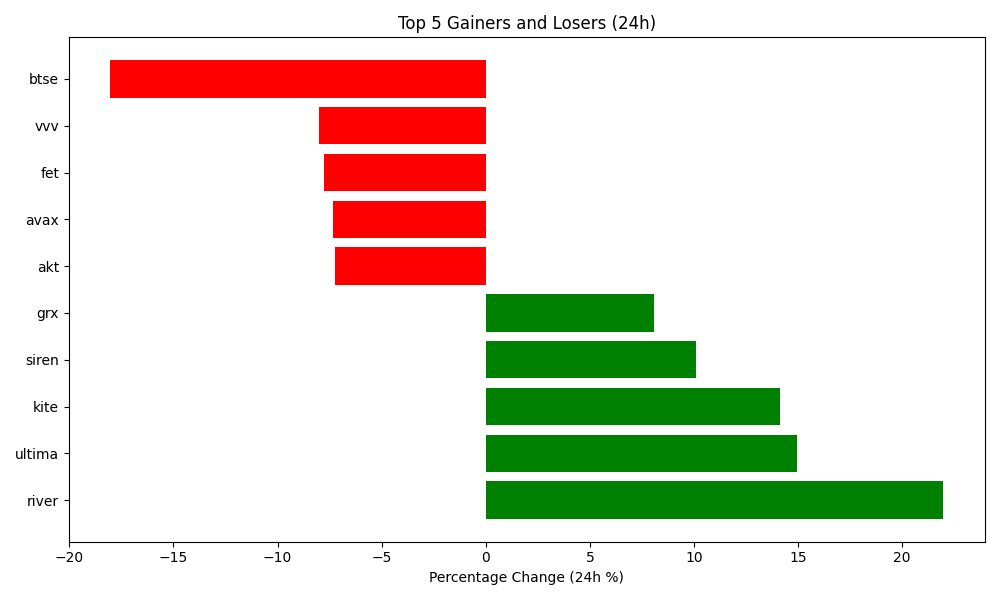
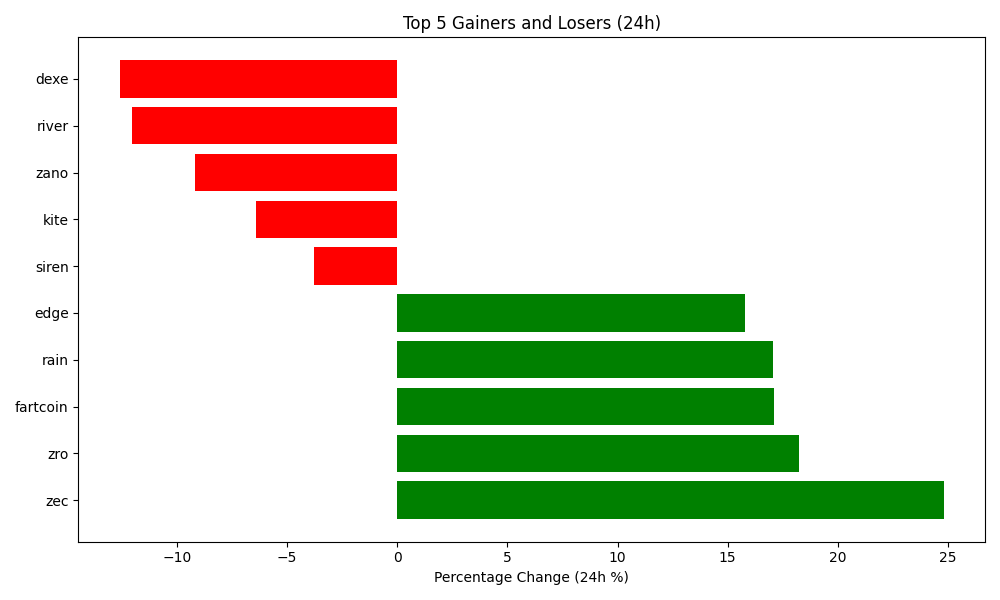
Auto-update crypto data and plot

diff --git a/README.md b/README.md
@@ -4,7 +4,7 @@ Author: Hitesh Agrawal
 This repository automatically tracks the top 5 gaining, top 5 losing, and top 5 highest volume cryptocurrencies in the last 24 hours using the CoinGecko API, Python, Matplotlib, and GitHub Actions updates the below content everyday at midnight.
 
 <!-- START_DYNAMIC_CONTENT -->
-Last updated: 2026-04-07 01:48 UTC
+Last updated: 2026-04-08 01:49 UTC
 
 ![Crypto Movers Plot](crypto_movers_plot.png)
 
@@ -12,33 +12,33 @@ Last updated: 2026-04-07 01:48 UTC
 
 | Rank | Coin | Price Change (24h %) | Volume (USD) | Current Price (USD) |
 | :--: | :--: | :------------------: | :----------: | :-----------------: |
-| 1 | river | 21.98% | $32,889,119 | $13.0600 |
-| 2 | ultima | 14.95% | $9,676,669 | $3,535.3000 |
-| 3 | kite | 14.16% | $111,997,504 | $0.1570 |
-| 4 | siren | 10.12% | $47,506,427 | $0.6127 |
-| 5 | grx | 8.06% | $26,590,587 | $11.4500 |
+| 1 | zec | 24.80% | $711,037,438 | $318.7400 |
+| 2 | zro | 18.22% | $89,451,970 | $2.0700 |
+| 3 | fartcoin | 17.12% | $79,006,034 | $0.1958 |
+| 4 | rain | 17.06% | $18,839,415 | $0.0076 |
+| 5 | edge | 15.79% | $49,825,177 | $1.0770 |
 
 
 **👇 Top 5 Losers (24h)**
 
 | Rank | Coin | Price Change (24h %) | Volume (USD) | Current Price (USD) |
 | :--: | :--: | :------------------: | :----------: | :-----------------: |
-| 1 | btse | -18.03% | $14,439,575 | $1.2000 |
-| 2 | vvv | -8.02% | $18,606,201 | $6.6100 |
-| 3 | fet | -7.75% | $105,674,519 | $0.2267 |
-| 4 | avax | -7.34% | $321,777,756 | $8.7500 |
-| 5 | akt | -7.23% | $5,212,150 | $0.4225 |
+| 1 | dexe | -12.59% | $25,256,076 | $7.7000 |
+| 2 | river | -12.01% | $25,513,136 | $11.6000 |
+| 3 | zano | -9.18% | $1,419,631 | $9.0600 |
+| 4 | kite | -6.39% | $81,532,306 | $0.1477 |
+| 5 | siren | -3.79% | $28,092,916 | $0.5892 |
 
 
 **💎 Top 5 by Trade Volume (24h)**
 
 | Rank | Coin | Price Change (24h %) | Volume (USD) | Current Price (USD) |
 | :--: | :--: | :------------------: | :----------: | :-----------------: |
-| 1 | usdt | 0.02% | $68,186,627,835 | $0.9999 |
-| 2 | btc | -0.36% | $45,220,654,342 | $68,580.0000 |
-| 3 | eth | -0.37% | $17,498,611,621 | $2,108.4400 |
-| 4 | usdc | 0.00% | $11,731,249,055 | $0.9999 |
-| 5 | sol | -2.35% | $2,849,611,559 | $79.9200 |
+| 1 | usdt | -0.00% | $87,903,357,505 | $0.9999 |
+| 2 | btc | 4.30% | $56,746,511,214 | $71,532.0000 |
+| 3 | eth | 6.18% | $23,346,768,852 | $2,238.1200 |
+| 4 | usdc | -0.00% | $14,239,248,799 | $0.9998 |
+| 5 | sol | 6.03% | $4,795,367,574 | $84.7800 |
 
 
 <!-- END_DYNAMIC_CONTENT -->
